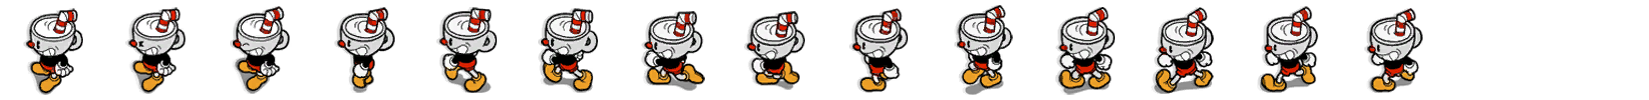
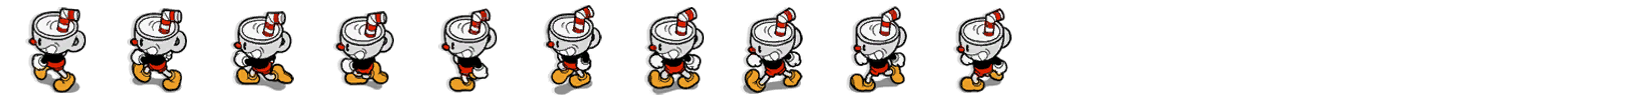
fix decoupling of walkingstate

Changed region(s): [[0.0, 0.06, 0.866, 0.96]]

diff --git a/main/logic/strategy/player/KeyboardStrategy.js b/main/logic/strategy/player/KeyboardStrategy.js
@@ -1,35 +1,61 @@
 class KeyboardStrategy {
     constructor() {
-        this.keys = { w: false, a: false, s: false, d: false }; // Initialize keys only once
-        this.speed = 2;
+        this.keys = { w: false, a: false, s: false, d: false };
+        this.keyQueue = []; 
+        this.speed = 3;
     }
 
-    // Update key states when keys are pressed
+    // Handle key presses
     handleKeyDown(event) {
-        console.log(`Key Down: ${event.key}`);  
-        if (event.key === 'w') this.keys.w = true;
-        if (event.key === 'a') this.keys.a = true;
-        if (event.key === 's') this.keys.s = true;
-        if (event.key === 'd') this.keys.d = true;
-        console.log(this.keys); 
+        const key = event.key.toLowerCase();
+        if (['w', 'a', 's', 'd'].includes(key)) {
+            if (!this.keys[key]) {
+                this.keyQueue.push(key); 
+            }
+            this.keys[key] = true;
+        }
     }
 
-    // Update key states when keys are released
+    // Handle key releases
     handleKeyUp(event) {
-        console.log(`Key Up: ${event.key}`);  
-        if (event.key === 'w') this.keys.w = false;
-        if (event.key === 'a') this.keys.a = false;
-        if (event.key === 's') this.keys.s = false;
-        if (event.key === 'd') this.keys.d = false;
-        console.log(this.keys); 
+        const key = event.key.toLowerCase();
+        if (['w', 'a', 's', 'd'].includes(key)) {
+            this.keys[key] = false; 
+            this.keyQueue = this.keyQueue.filter((k) => k !== key); 
+        }
     }
 
-    // Move the player based on pressed keys
+    // Get the most recent direction, resolving conflicts (e.g., up/down or left/right)
+    getLatestDirection() {
+        let vertical = null;
+        let horizontal = null; 
+
+        // Traverse the queue in reverse to find the most recent conflicting directions
+        for (let i = this.keyQueue.length - 1; i >= 0; i--) {
+            const key = this.keyQueue[i];
+            if (['w', 's'].includes(key) && !vertical) vertical = key;
+            if (['a', 'd'].includes(key) && !horizontal) horizontal = key; 
+            if (vertical && horizontal) break; 
+        }
+
+        // Determine final direction
+        if (vertical && horizontal) return `${vertical}-${horizontal}`; 
+        if (vertical) return vertical; 
+        if (horizontal) return horizontal;
+
+        return null;
+    }
+
+    // Move the player based on the latest direction
     move(player) {
-        if (this.keys.w) player.y -= this.speed; // Move up
-        if (this.keys.s) player.y += this.speed; // Move down
-        if (this.keys.a) player.x -= this.speed; // Move left
-        if (this.keys.d) player.x += this.speed; // Move right
+        const latestDirection = this.getLatestDirection();
+        if (!latestDirection) return;
+
+        // Perform movement based on the latest direction
+        if (latestDirection.includes('w')) player.y -= this.speed; // Move up
+        if (latestDirection.includes('s')) player.y += this.speed; // Move down
+        if (latestDirection.includes('a')) player.x -= this.speed; // Move left
+        if (latestDirection.includes('d')) player.x += this.speed; // Move right
     }
 }
 

diff --git a/main/logic/state/player/WalkingState.js b/main/logic/state/player/WalkingState.js
@@ -5,30 +5,35 @@ class WalkingState extends PlayerState {
         super(player);
         this.frameTimer = 0;
         this.frameDelay = 5;
-        this.loopFrames = player.animations.down.loopFrames || 16;
-        this.totalFrames = 16;
-        this.player.direction = this.getAnimationDirection();
-        this.player.setAnimation(this.player.direction);
+
+        // Set initial animation direction
+        const direction = this.getAnimationDirection();
+        this.loopFrames = player.animations[direction]?.loopFrames || 16;
+        this.totalFrames = player.animations[direction]?.frames || 16;
+        player.direction = direction;
+        player.setAnimation(direction);
     }
 
     getAnimationDirection() {
-        const keys = this.player.movementStrategy.keys;  // Access keys from movementStrategy
-        let direction = 'down';
+        const latestDirection = this.player.movementStrategy.getLatestDirection();
+        if (!latestDirection) return this.player.direction || 'down';
 
-        if (keys.w && keys.d) direction = 'up-right';
-        else if (keys.w && keys.a) direction = 'up-left';
-        else if (keys.s && keys.d) direction = 'down-right';
-        else if (keys.s && keys.a) direction = 'down-left';
-        else if (keys.w) direction = 'up';
-        else if (keys.s) direction = 'down';
-        else if (keys.a) direction = 'left';
-        else if (keys.d) direction = 'right';
+        const keyToDirection = {
+            w: 'up',
+            a: 'left',
+            s: 'down',
+            d: 'right',
+            'w-d': 'up-right',
+            'w-a': 'up-left',
+            's-d': 'down-right',
+            's-a': 'down-left',
+        };
 
-        return direction;
+        return keyToDirection[latestDirection] || 'down';
     }
 
     update() {
-        // Handle frame update and check if direction has changed
+        // Update animation frame
         if (this.frameTimer >= this.frameDelay) {
             this.player.frame = (this.player.frame + 1) % this.loopFrames;
             this.frameTimer = 0;
@@ -36,12 +41,14 @@ class WalkingState extends PlayerState {
             this.frameTimer++;
         }
 
-        // Check if the animation direction needs to be updated
+        // Check for direction changes
         const newDirection = this.getAnimationDirection();
         if (this.player.direction !== newDirection) {
-            this.player.frame = 0;  // Reset to first frame for the new direction
-            this.player.direction = newDirection;  // Update direction
-            this.player.setAnimation(newDirection);  // Update animation
+            this.player.frame = 0; 
+            this.player.direction = newDirection;
+            this.loopFrames = this.player.animations[newDirection]?.loopFrames || 16; 
+            this.totalFrames = this.player.animations[newDirection]?.frames || 16; 
+            this.player.setAnimation(newDirection);
         }
     }
 

diff --git a/main/logic/Player.js b/main/logic/Player.js
@@ -13,7 +13,7 @@ class Player extends GameObject {
         this.frameDelay = 10;
         this.frameCounter = 0;
         this.state = new IdleState(this);
-        this.movementStrategy = new KeyboardStrategy();  // Movement strategy handles key states
+        this.movementStrategy = new KeyboardStrategy();  
         this.currentAnimation = 'idle';
         this.init();
     }
@@ -36,11 +36,9 @@ class Player extends GameObject {
 
     init() {
         window.addEventListener('keydown', (event) => {
-            console.log(`Key Down in Player: ${event.key}`); // Debugging line
             this.movementStrategy.handleKeyDown(event);
         });
         window.addEventListener('keyup', (event) => {
-            console.log(`Key Up in Player: ${event.key}`); // Debugging line
             this.movementStrategy.handleKeyUp(event);
         });
     }

diff --git a/main/index.js b/main/index.js
@@ -54,7 +54,7 @@ async function loadMapConfig() {
             75,
             75,
             c,
-            loadedAnimations // Pass the loaded animations to the player
+            loadedAnimations
         );
         console.log("Player initialized:", player);
         player.setState(new IdleState(player));
@@ -85,10 +85,10 @@ async function loadCharacterAnimations() {
         }
 
         console.log("Player animations loaded:", loadedAnimations);
-        return loadedAnimations; // Return loaded animations to be passed to Player
+        return loadedAnimations; 
     } catch (error) {
         console.error('Error loading character animations:', error);
-        return {}; // Return an empty object in case of error
+        return {}; 
     }
 }
 
